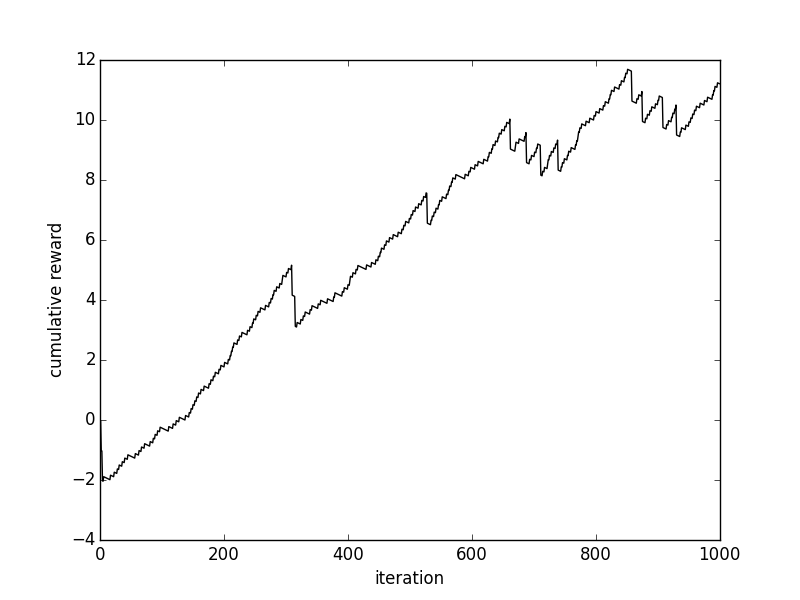
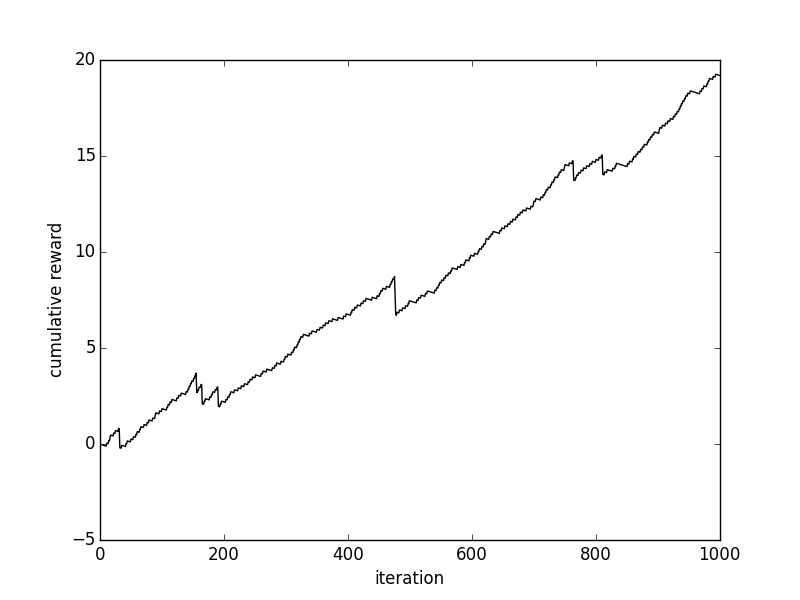
fixed analyse function!
we did a complete lookahead rather than an n-step lookahead, on which
the value function estimate is based…

diff --git a/agents.py b/agents.py
@@ -490,7 +490,8 @@ class A2C(Agent):
         value[:] = np.nan
 
         returns = np.zeros([test_iter, 1], dtype=np.float32)
-        returns[:] = np.nan
+
+        done = np.zeros([test_iter, 1], dtype=np.bool)
 
         _internal_states = {}
 
@@ -515,23 +516,12 @@ class A2C(Agent):
             # generate action using actor model
             action, pi, v, internal = self.act(obs, internal_states = True)
 
+            # actor-related regressors
             score_function[i] = self.score_function(action, pi).data
-
-            # perform action via actor and receive new observations and reward
-            obs, reward, done = self.environment.step(actions[i])
-
-            # if done:
-            #     self.model.reset()
-
-            # No reward clipping; will lead to random guessing as best option for our environment
-            # reward = np.clip(reward, -1, 1)
-
-            # store reward and value
-            rewards[i] = reward
-            value[i] = v.data
-
-            # compute entropy
             entropy[i] = self.entropy(pi).data
+
+            # critic-related regressor
+            value[i] = v.data
 
             # initialize internal states
             if i == 0:
@@ -543,21 +533,54 @@ class A2C(Agent):
             for k in internal.keys():
                 _internal_states[k][i] = internal[k]
 
+            # perform action via actor and receive new observations and reward
+            obs, rewards[i], done[i] = self.environment.step(actions[i])
+
+            # if done:
+            #     self.model.reset()
+
+            # No reward clipping; will lead to random guessing as best option for our environment
+            # reward = np.clip(reward, -1, 1)
+
             # For the last step we don't have an observation or ground truth (end of experiment)
             if i < test_iter - 1:
                 env.set_ground_truth(ground_truth[i + 1])
                 obs = observations[i + 1].reshape(obs_shape)
 
-        if done:
-            R = 0
-        else:
-            _, vout = self.model(obs, persistent=True)
-            R = float(vout.data)
+        # if done:
+        #     R = 0
+        # else:
+        #     _, vout = self.model(obs, persistent=True)
+        #     R = float(vout.data)
+        #
+        # for i in range(test_iter-1, -1, -1):
+        #
+        #     R = rewards[i] + self.gamma * R
+        #     returns[i] = R
 
-        for i in range(test_iter-1, -1, -1):
+        # compute value associated with the last produced observation
+        _, vout = self.model(obs, persistent=True)
+        vlast = float(vout.data)
 
-            R = rewards[i] + self.gamma * R
-            returns[i] = R
+        # compute n-step reward as approximation of action-value function for each time point
+        for i in range(test_iter):
+
+            # take at most n steps
+            for j in range(self.t_max):
+
+                idx = i + j
+
+                if idx == test_iter:
+                    returns[i] += self.gamma ** (idx-i) * vlast
+                    break
+
+                if idx > i and done[idx]:
+                    break
+
+                if j == self.t_max - 1:
+                    returns[i] += self.gamma ** (idx-i) * value[idx]
+                else:
+                    returns[i] += self.gamma ** (idx-i) * rewards[i]
 
         advantage = returns - value
         advantage_surprise = advantage**2

diff --git a/environments.py b/environments.py
@@ -522,7 +522,7 @@ class RandomSample(Environment):
 
         """
 
-        self.state = np.array(np.random.random()-0.5)
+        self.state = np.array(np.random.random())
         #self.state = np.array([0])
 
         # add bias term
